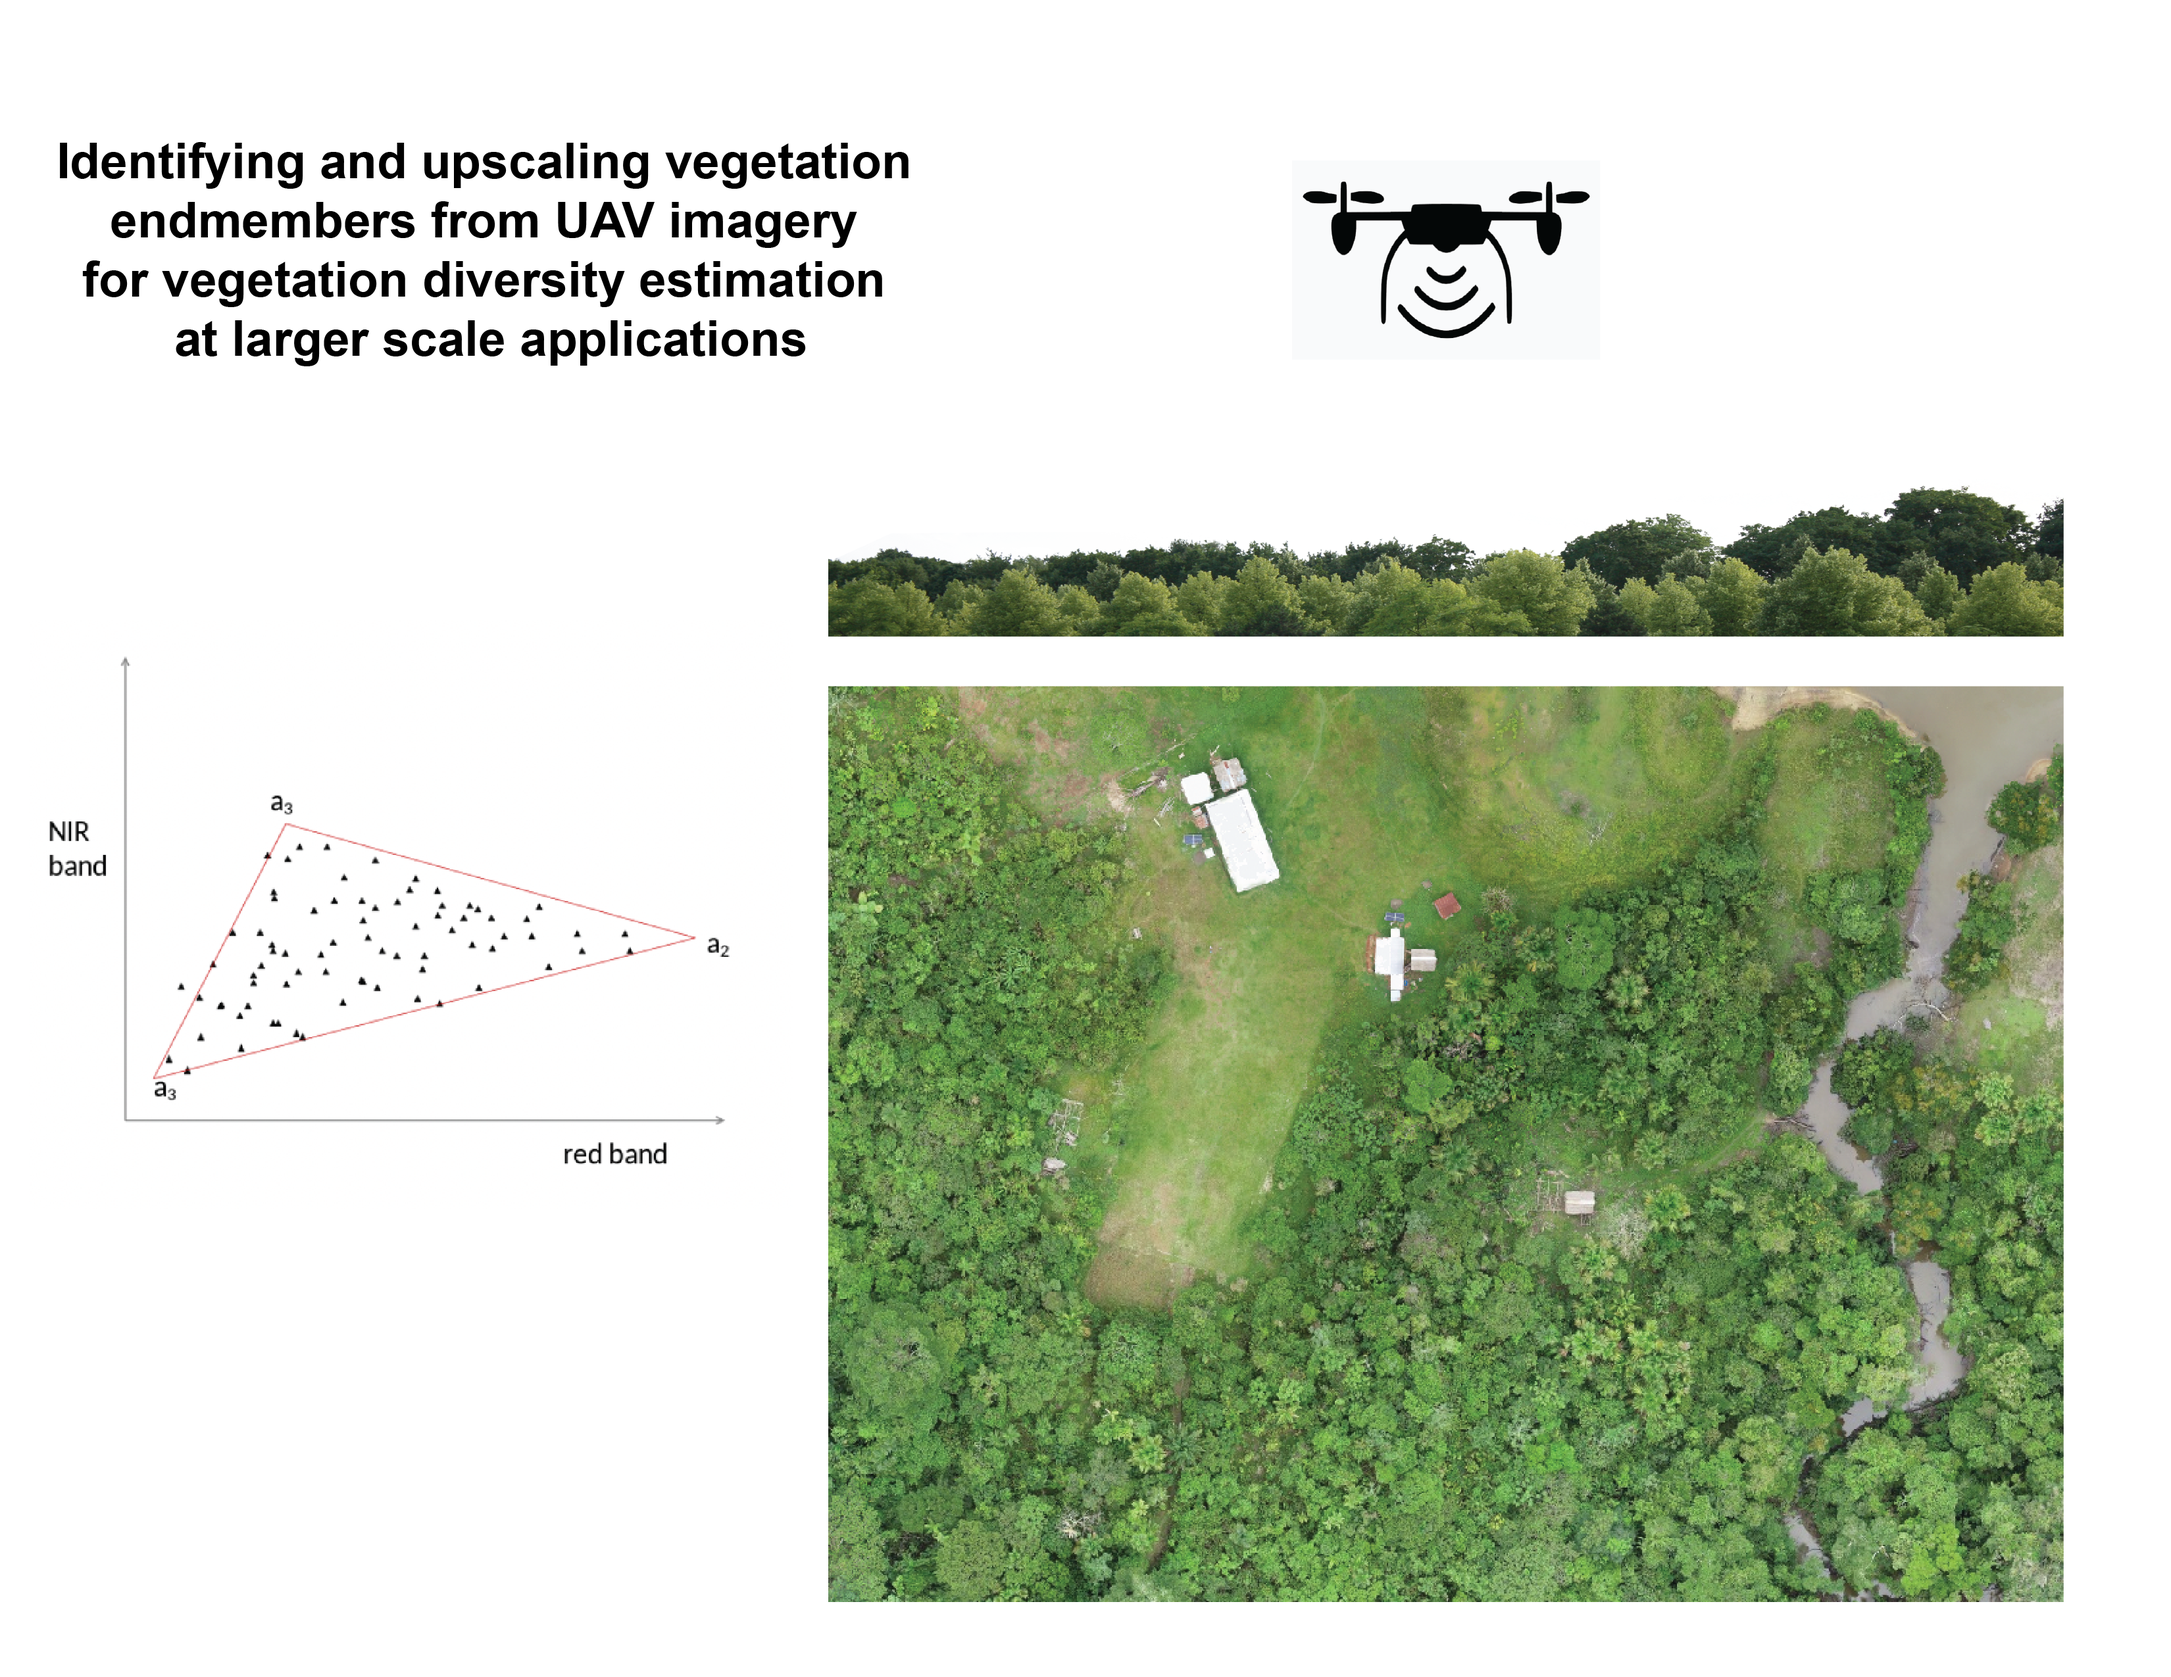
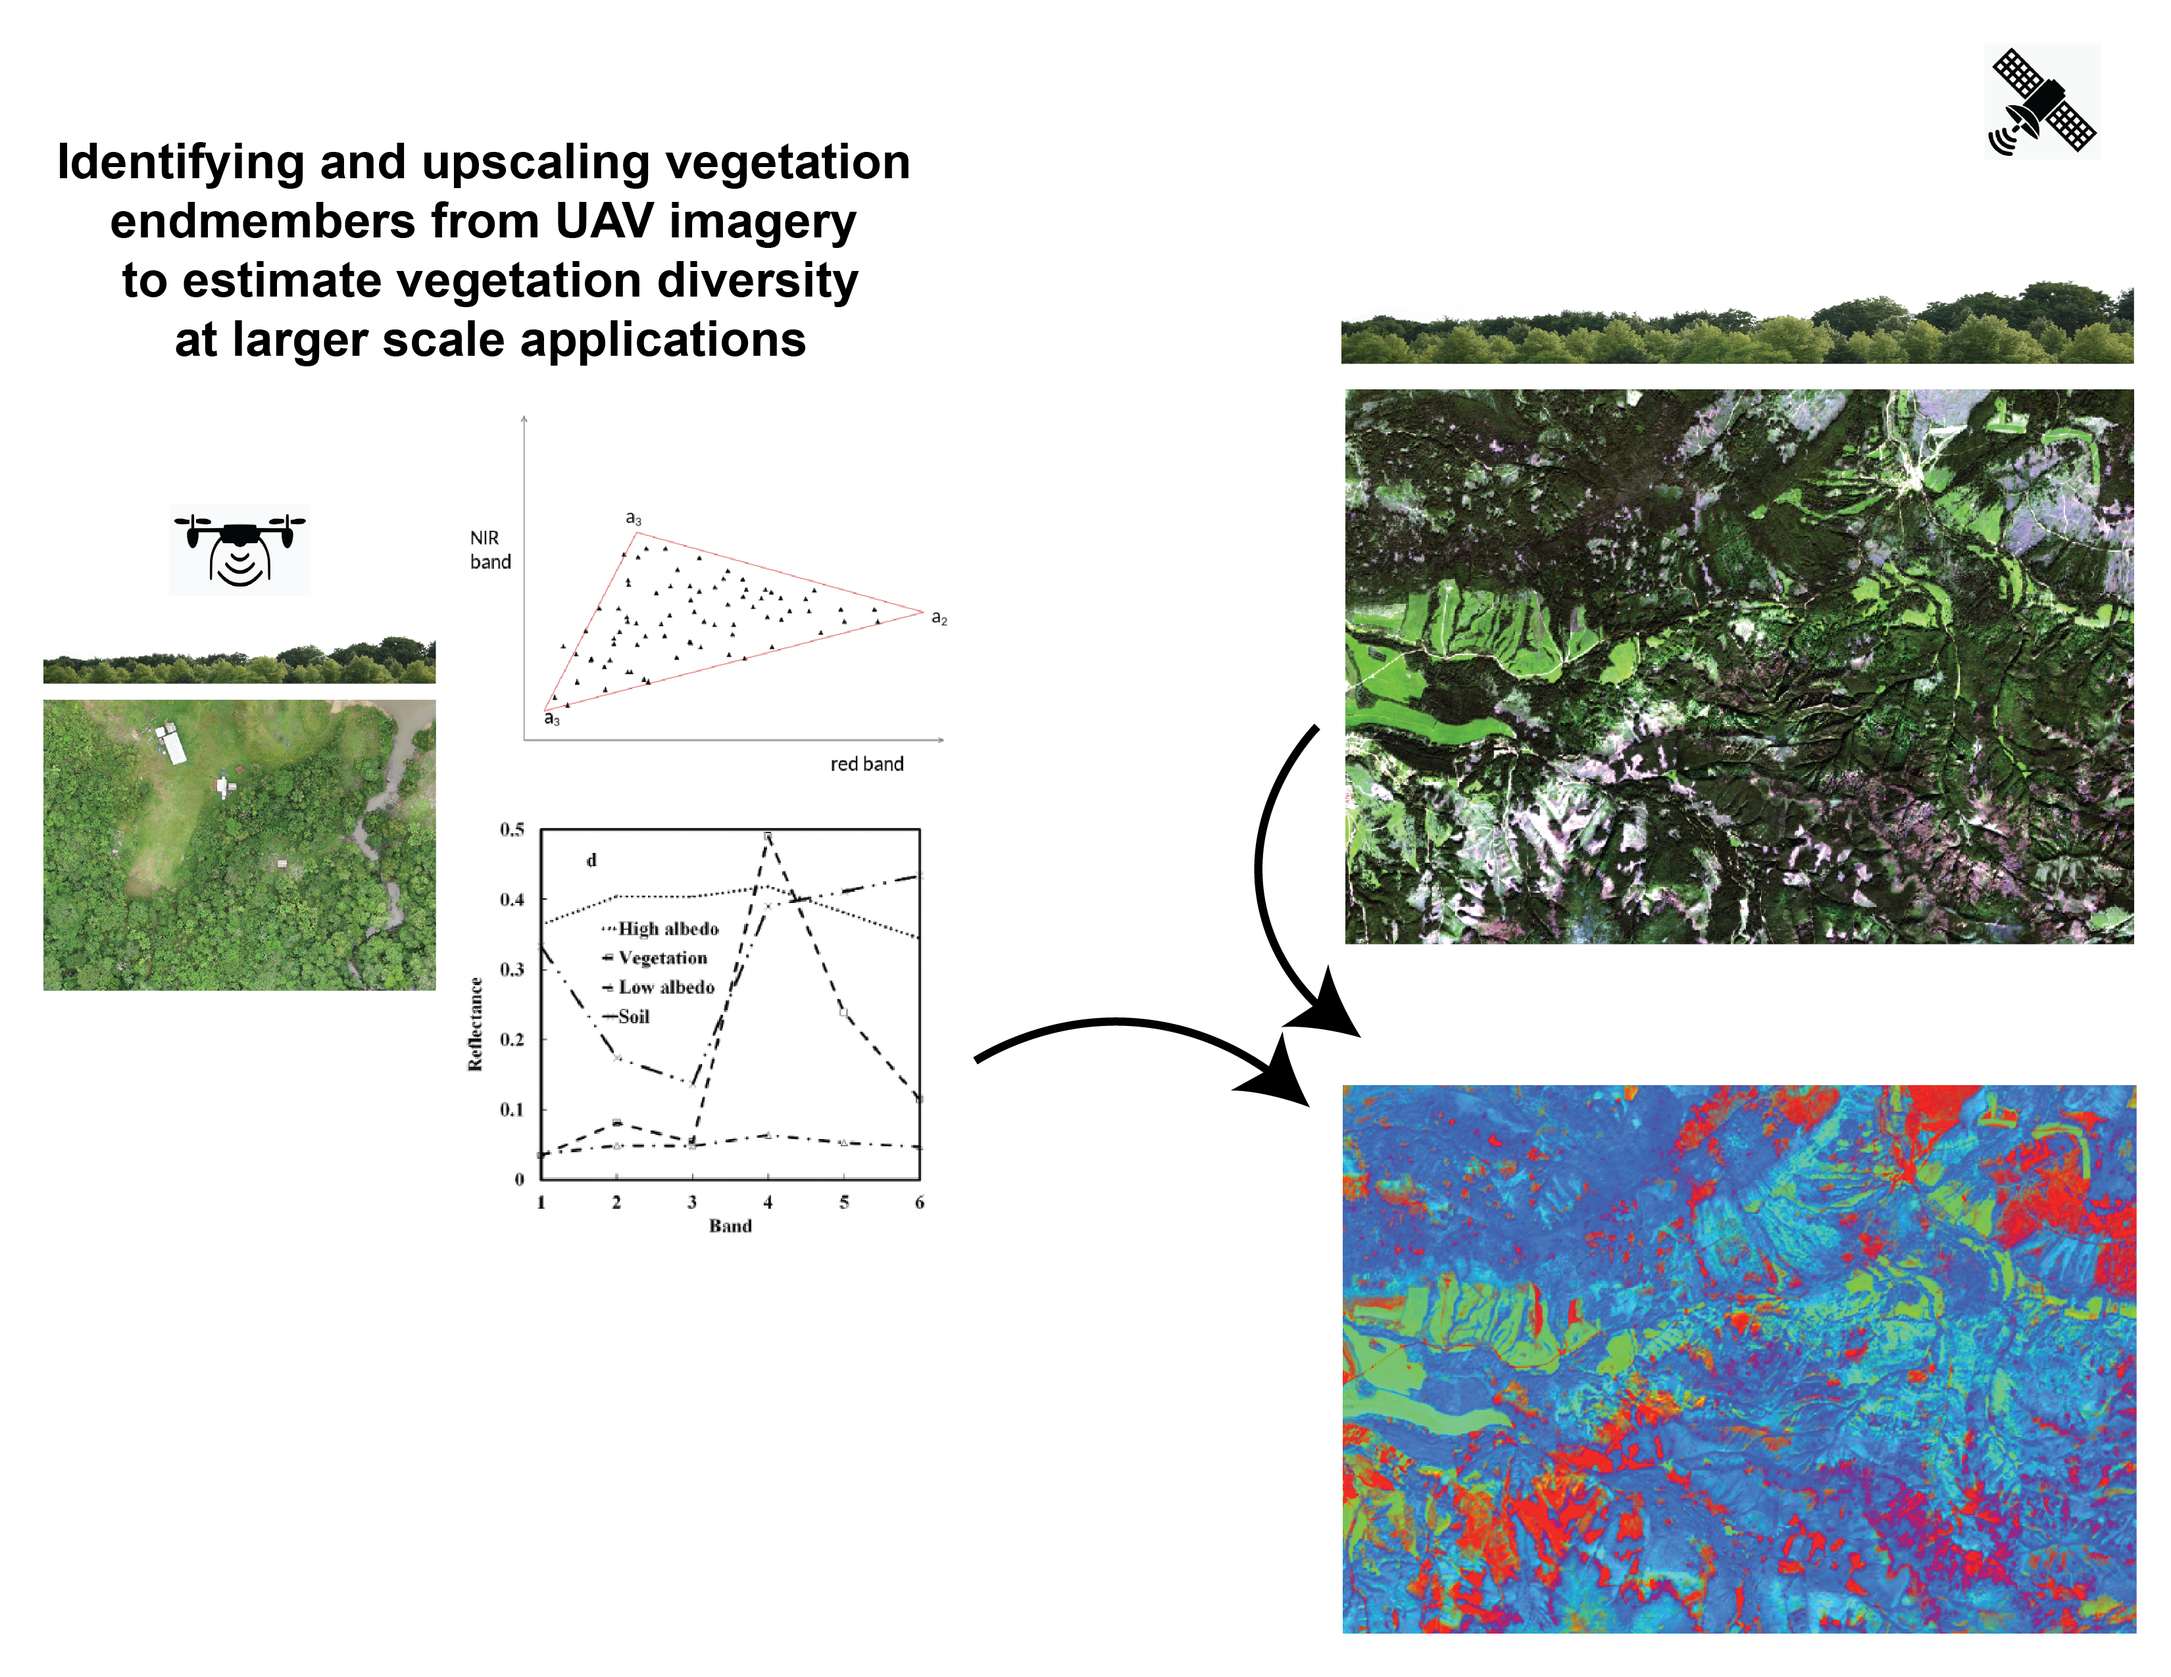
img:update

diff --git a/README.md b/README.md
@@ -1,7 +1,7 @@
 # Software Development Final Project
 Final project for the course Software Development @[PLUS](https://www.plus.ac.at/)
 
-# Identifying and upscaling vegetation endmembers from UAV imagery to identify vegetation diversity at larger scale applications
+# Identifying and upscaling vegetation endmembers from UAV imagery to estimate vegetation diversity at larger scale applications
 Henrike Dierkes, Edgar Manrique, Kiarash Pooladsaz
 
 ## Aim
